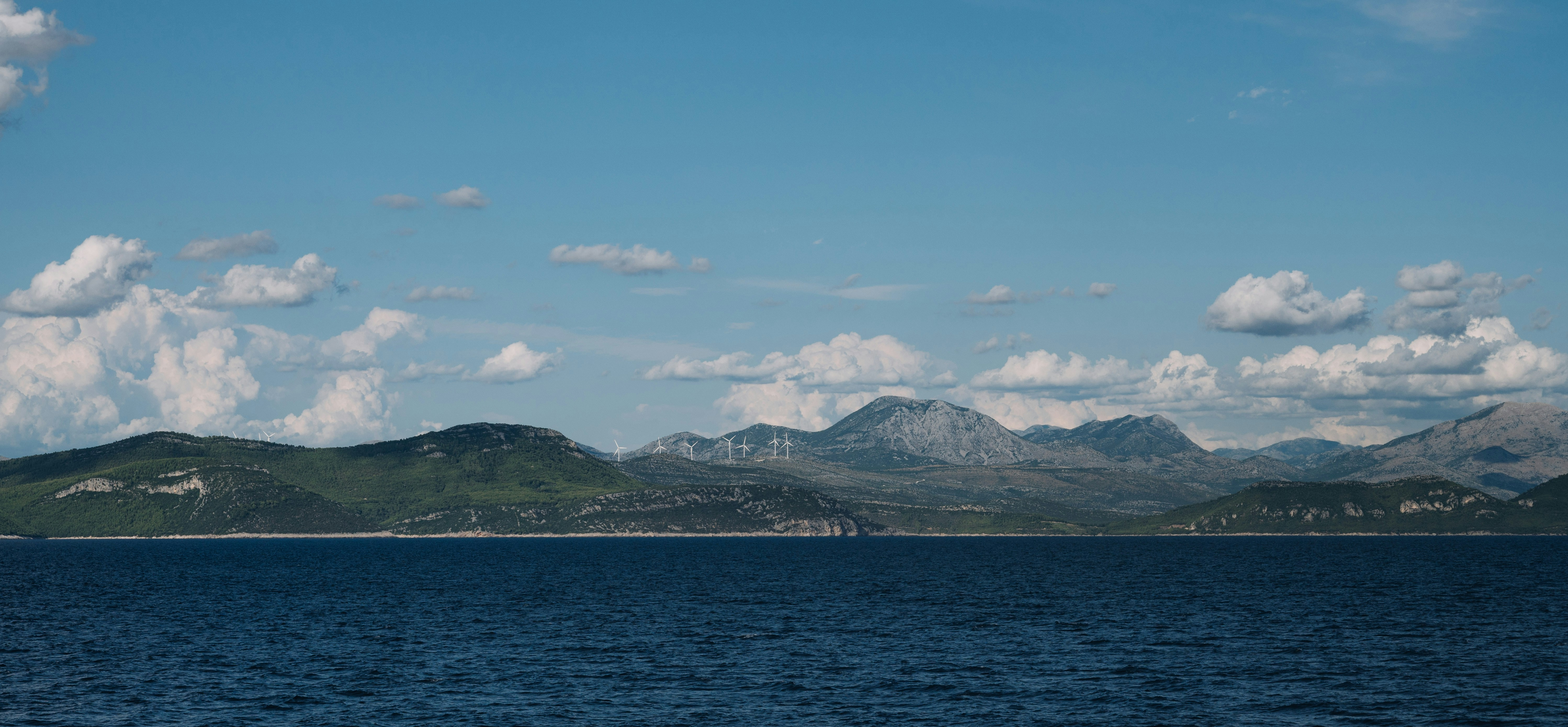
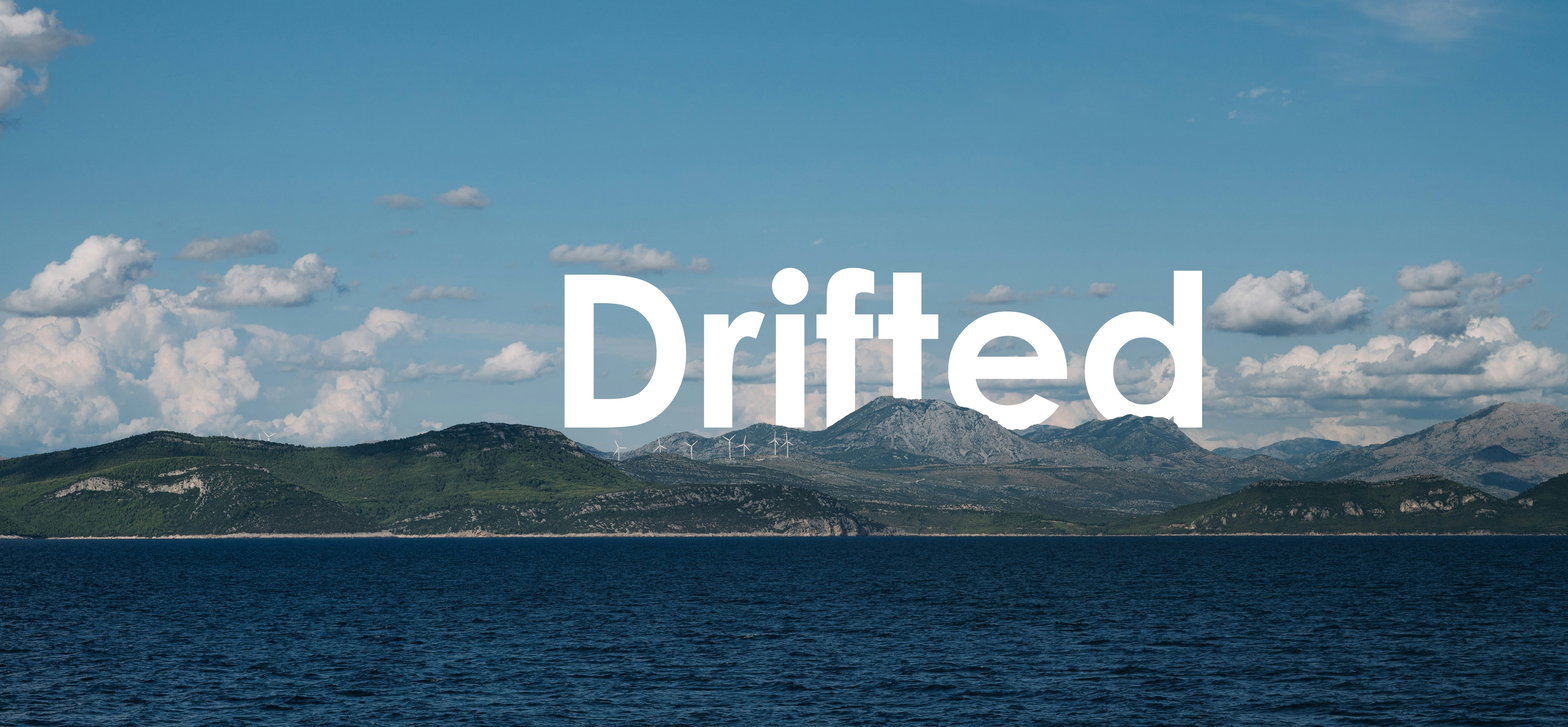
homepage and comments

diff --git a/drifted/src/components/Comments.jsx b/drifted/src/components/Comments.jsx
@@ -1,0 +1,41 @@
+import {useState, useEffect} from "react"
+import {getComments as getCommentsApi, createComment as createCommentApi, deleteComment as deleteCommentApi} from '../api'
+import Comment from './Comment'
+import CommentForm from './CommentForm'
+const Comments = ({currentUserId}) => {
+    const [comments, setComments] = useState([]);
+    const rootComments = comments.filter((comments) => comments.parentId === null)
+    const getReplies = commentId => {
+        return comments.filter(comment => comment.parentId === commentId).sort((a,b) => new Date(a.createdAt).getTime() - new Date(b.createdAt).getTime())
+    }
+    const addComment = (text, parentId) => {
+        console.log('addComment', text, parentId)
+        createCommentApi(text, parentId).then(comment => {
+            setComments([comment, ...comments])
+        })
+    }
+    const deleteComment = (commentId) => {
+        deleteCommentApi(commentId).then(() => {
+            setComments(comments.filter(comment => comment.id!== commentId))
+        })
+    }
+    useEffect(() => {
+        getCommentsApi().then(data => {
+            setComments(data);
+        })
+    }, [])
+    return (
+        <div className="comments">
+            <h3 className="comments-title">Comments</h3>
+            <div className="comments-container">
+                {rootComments.map(rootComment => (
+                    <Comment key={rootComment.id} comment={rootComment} replies={getReplies(rootComment.id)} currentUserId={currentUserId} deleteComment={deleteComment} />
+                ))}
+            </div>
+            <div className="comment-form-title">Write a message</div>
+            <CommentForm submitLabel="Write" handleSubmit={addComment} />
+        </div>
+    )
+}
+
+export default Comments;

diff --git a/drifted/src/pages/css/comment.css b/drifted/src/pages/css/comment.css
@@ -1,0 +1,99 @@
+.comments {
+    margin-top: 20px;
+  }
+  
+  .comments-title {
+    font-size: 30px;
+    margin-bottom: 20px;
+  }
+  
+  .comments-container {
+    margin-top: 40px;
+  }
+  
+  .comment-form-title {
+    font-size: 22px;
+  }
+  
+  .comment-form-textarea {
+    width: 100%;
+    height: 80px;
+    margin-bottom: 8px;
+    margin-top: 8px;
+    border: 1px solid rgb(107, 114, 12);
+  }
+  
+  .comment-form-button {
+    font-size: 16px;
+    padding: 8px 16px;
+    background: rgb(59, 130, 246);
+    border-radius: 8px;
+    color: white;
+  }
+  
+  .comment-form-button:hover:enabled {
+    cursor: pointer;
+    background: rgb(37, 99, 235);
+  }
+  
+  .comment-form-button:disabled {
+    opacity: 0.7;
+    cursor: default;
+  }
+  
+  .comment-form-cancel-button {
+    margin-left: 10px;
+  }
+  
+  .comment {
+    display: flex;
+    margin-bottom: 28px;
+  }
+  
+  .comment-image-container {
+    margin-right: 12px;
+  }
+  
+  .comment-image-container img {
+    border-radius: 50px;
+    width: 50px;
+    height: 50px;
+  }
+  
+  .comment-right-part {
+    width: 100%;
+  }
+  
+  .comment-content {
+    display: flex;
+  }
+  
+  .comment-author {
+    margin-right: 8px;
+    font-size: 20px;
+    color: rgb(59, 130, 246);
+  }
+  
+  .comment-text {
+    font-size: 18px;
+  }
+  
+  .comment-actions {
+    display: flex;
+    font-size: 12px;
+    color: rgb(51, 51, 51);
+    cursor: pointer;
+    margin-top: 8px;
+  }
+  
+  .comment-action {
+    margin-right: 8px;
+  }
+  
+  .comment-action:hover {
+    text-decoration: underline;
+  }
+  
+  .replies {
+    margin-top: 20px;
+  }

diff --git a/drifted/src/components/Comment.jsx b/drifted/src/components/Comment.jsx
@@ -1,0 +1,32 @@
+
+const Comment = ({comment, replies, currentUserId, deleteComment}) => {
+    const createdAt = new Date(comment.createdAt).toLocaleDateString(); 
+    return (
+        <div className="comment">
+            <div className="comment-image-container">
+                <img src="https://res.cloudinary.com/dynkv0p8x/image/upload/v1736484287/user_du39us.png" />
+            </div>
+            <div className="comment-right-part">
+                <div className="comment-content">
+                    <div className="comment-author">{comment.username}</div>
+                    <div>{createdAt}</div>
+                </div>
+                <div className="comment-text">{comment.body}</div>
+                <div className="comment-actions">
+                    <div className="comment-action">Reply</div>
+                    <div className="comment-action">Edit</div>
+                    <div className="comment-action" onClick={() => deleteComment(comment.id)}>Delete</div>
+                </div>
+                {replies.length > 0 && (
+                    <div className="replies">
+                        {replies.map(reply => (
+                            <Comment comment={reply} key={reply.id} replies={[]} currentUserId={currentUserId} deleteComment={deleteComment} />
+                        ))}
+                    </div>
+                )}
+            </div>
+        </div>
+    )
+}
+
+export default Comment;

diff --git a/drifted/src/api.js b/drifted/src/api.js
@@ -1,0 +1,55 @@
+export const getComments = async () => {
+    return [
+      {
+        id: "1",
+        body: "First comment",
+        username: "Jack",
+        userId: "1",
+        parentId: null,
+        createdAt: "2021-08-16T23:00:33.010+02:00",
+      },
+      {
+        id: "2",
+        body: "Second comment",
+        username: "John",
+        userId: "2",
+        parentId: null,
+        createdAt: "2021-08-16T23:00:33.010+02:00",
+      },
+      {
+        id: "3",
+        body: "First comment first child",
+        username: "John",
+        userId: "2",
+        parentId: "1",
+        createdAt: "2021-08-16T23:00:33.010+02:00",
+      },
+      {
+        id: "4",
+        body: "Second comment second child",
+        username: "John",
+        userId: "2",
+        parentId: "2",
+        createdAt: "2021-08-16T23:00:33.010+02:00",
+      },
+    ];
+  };
+  
+  export const createComment = async (text, parentId = null) => {
+    return {
+      id: Math.random().toString(36).substr(2, 9),
+      body: text,
+      parentId,
+      userId: "1",
+      username: "John",
+      createdAt: new Date().toISOString(),
+    };
+  };
+  
+  export const updateComment = async (text) => {
+    return { text };
+  };
+  
+  export const deleteComment = async () => {
+    return {};
+  };

diff --git a/drifted/src/pages/main.jsx b/drifted/src/pages/main.jsx
@@ -4,11 +4,15 @@ import React from 'react'
 
 export const main = () => {
   return (
-    <div className="top-container">
-      <img className="main" src="https://res.cloudinary.com/dynkv0p8x/image/upload/v1736374023/mountain_vctbqy.jpg" alt="Mountains" />
-      <h1 className="title-drifted">Drifted</h1>
-      <img className="main" src="https://res.cloudinary.com/dynkv0p8x/image/upload/v1736374020/image-removebg-preview_5_mib9ow.png" alt="Mountains" />
-    </div>
+    <>
+      <div className="top-container">
+        <img className="main" src="https://res.cloudinary.com/dynkv0p8x/image/upload/v1736469296/mountain_wskmaf.jpg" alt="Mountains" />
+      </div>
+
+      <div className="blog-container">
+        <h1 className="places-title">Places</h1>
+      </div>
+    </>
   )
 }
 export default main

diff --git a/drifted/src/components/CommentForm.jsx b/drifted/src/components/CommentForm.jsx
@@ -1,0 +1,19 @@
+import {useState} from "react";
+
+const CommentForm = ({handleSubmit, submitLabel}) => {
+    const [text, setText] = useState('')
+    const isTextareaDisabled = text.length === 0
+    const onSubmit = event => {
+        event.preventDefault()
+        handleSubmit(text)
+        setText("")
+    }
+    return (
+        <form onSubmit={onSubmit}>
+            <textarea className="comment-form-textarea" value={text} onChange={(e) => setText(e.target.value)} />
+            <button ClassName="comment-form-button" disabled={isTextareaDisabled}>{submitLabel}</button>
+        </form>
+    )
+}
+
+export default CommentForm;

diff --git a/drifted/src/index.js b/drifted/src/index.js
@@ -1,13 +1,14 @@
 import React from 'react';
 import ReactDOM from 'react-dom/client';
 import './pages/css/index.css';
-import App from './pages/App';
+import './pages/css/comment.css';
 import Main from './pages/main';
+import Blog from './pages/blog';
 import { createBrowserRouter, RouterProvider } from 'react-router-dom'
 
 const router = createBrowserRouter([
-  { path: '/app', element: <App /> },
   { path: '/', element: <Main /> },
+  { path: '/blog', element: <Blog />}
   // Add more routes as needed...
 ])
 

diff --git a/drifted/src/pages/css/main.css b/drifted/src/pages/css/main.css
@@ -10,13 +10,15 @@ body{
 
 .main{
     height: 100vh;
-    width: 100vw;
+    width: 130vw;
+    margin-left: -24%;
+    box-shadow: rgba(0, 0, 0, 0.45) 0px 25px 20px -20px;
 }
 
-.title-drifted {
+.places-title {
     text-align: center;
-    font-size: 20em;
+    font-size: 8em;
     position: relative;
-    color: white;
-    margin-top: -45%;
+    color: #939393;
+    margin-top: 0%;
 }

diff --git a/drifted/src/pages/blog.jsx b/drifted/src/pages/blog.jsx
@@ -1,0 +1,12 @@
+import './App.css';
+import Comments from "../components/Comments"
+
+function App() {
+  return (
+    <div>
+      <Comments currentUserId="1" />
+    </div>
+  );
+}
+
+export default App;
